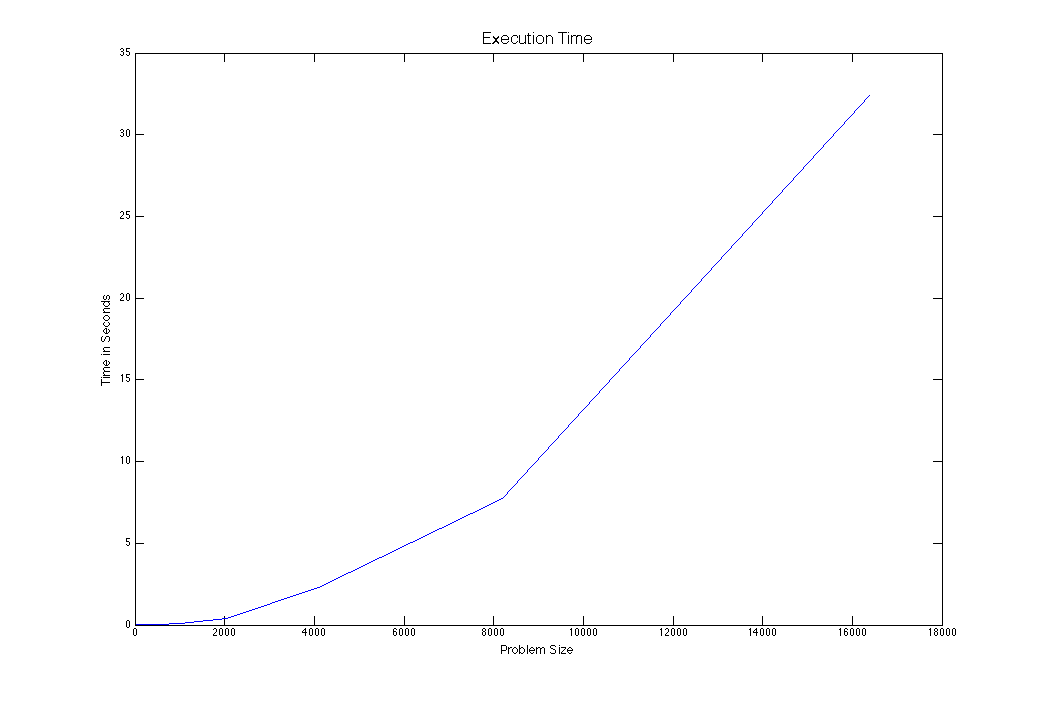
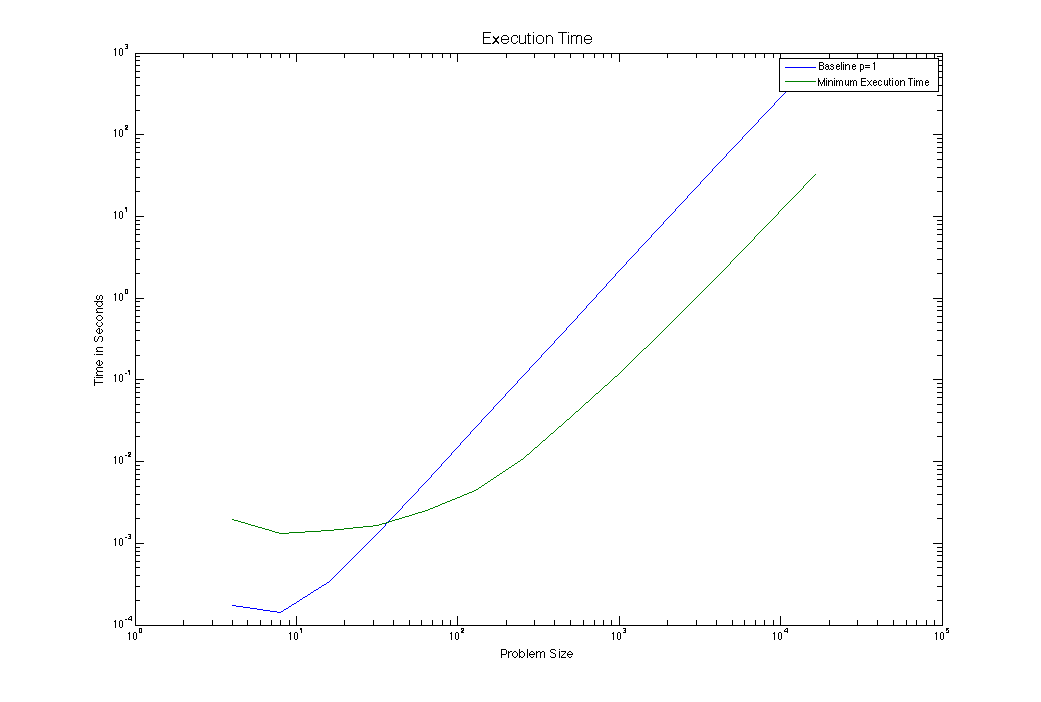
Added some more to results and analysis. Changed the graphs a bit so they are more readable. Wrote some code for generating a graph of the speedup.

diff --git a/TMA4280_Supercomputing/Exercise/ex6/report.tex b/TMA4280_Supercomputing/Exercise/ex6/report.tex
@@ -126,6 +126,8 @@ For our solution we used following packages on kongull:
 		e = \Theta(\frac{1}{n^2})
 	\end{equation}
 
+	We plot our error against this expected error in Figure~\ref{fig:errorGraph}. We generated this graph using the formula from \ref{eqn:error} and by running our program 10 times for each problem size. In each run we found the maximum error in any grid location and found the average max error over the 10 runs. The two lines are parallel so they must only differ by a constant factor. This is the result we predicted so the program must be correct.
+
 	\begin{figure}[htbp]
 	\begin{center}
 	\includegraphics[width=15cm,keepaspectratio=true]{figs/errorGraph}
@@ -134,25 +136,32 @@ For our solution we used following packages on kongull:
 	\end{center}
 	\end{figure}
 
+\subsection{Execution Times}
+
 	\begin{figure}[htbp]
 	\begin{center}
 	\includegraphics[width=15cm,keepaspectratio=true]{figs/executionTime}
-	\caption{Something insightful.}
-	\label{fig:errorGraph}
+	\caption{The minimum execution time of each problem size. See Figure~\ref{fig:threadsProcesses} for a graph of the number of OpenMP threads and MPI processes that were used to achieve the minimum execution times.}
+	\label{fig:executionTime}
 	\end{center}
 	\end{figure}
+
+	Figure~\ref{fig:executionTime} compares the time the fastest parallelized version where $p=36$ with the baseline $p=1$. Using 36 processors has some overhead to synchronize the processors and share data so for small problem sizes the execution time is slower. As the problem size grows, this overhead become very small compared to the processing required to solve the poisson problem, so using 36 processors performs much better. The point where using 36 processors becomes faster than a single processor is very close to $n=36$. This represents the point where the time saved in overhead to coordinate 36 processors is equal to the time saved being able to processes data faster. When $n$ is sufficiently large, both the single processor and 36 processor version experience exponential growth in execution time.  
+	
+
+\section{Analysis}
 
 	\begin{figure}[htbp]
 	\begin{center}
 	\includegraphics[width=15cm,keepaspectratio=true]{figs/threadsProcesses}
-	\caption{Something insightful.}
-	\label{fig:errorGraph}
+	\caption{The number MPI processes and OpenMP threads per process that produced the minimum execution time for each problem size. When the problem size is sufficiently large, using purely MPI produces the fastest results.}
+	\label{fig:threadsProcesses}
 	\end{center}
 	\end{figure}
 
-	
+	In Figure~\ref{fig:threadsProcesses} we can see that for larger problem sizes, using mostly or completely MPI results in faster execution times. The main reason for this is that when we increase the number of MPI processes we are increasing the parallelization of both the fst steps and the transpose step. When we increase the number of OpenMP threads we are only parallelizing the fst step. When there are more MPI processes each process has to send and receive a much smaller piece of data than if there are more OpenMP threads. 
 
-\section{Analysis}
+
 %\begin{figure}[htbp]
 %\begin{center}
 %\includegraphics[width=15cm,keepaspectratio=true]{angles}

diff --git a/TMA4280_Supercomputing/Exercise/ex6/src/dataAnalysis/genSpeedUp.m b/TMA4280_Supercomputing/Exercise/ex6/src/dataAnalysis/genSpeedUp.m
@@ -1,0 +1,43 @@
+function [  ] = genSpeedUp( )
+%GENSPEEDUP Summary of this function goes here
+%   Detailed explanation goes here
+
+baseline = dlmread('proc1Poisson.txt');
+bsize = baseline(:,3);
+btime = baseline(:,4);
+
+vary = dlmread('varyPoisson.txt');
+vsize = vary(:,3);
+vtime = vary(:,4);
+vproc = vary(:,1);
+
+[uniqueSizes,~,sInd] = unique(vsize);
+[uniqueProc,~,pInd] = unique(vproc);
+datalen = length(uniqueProc);
+data = zeros(datalen, length(uniqueSizes));
+
+for i = 1:uniqueProc
+    loc = 1;
+    for j = 1:length(vtime)
+        if (pInd(j) == i)
+            data(i,loc) = vtime(j);
+            loc = loc + 1;
+        end
+    end
+end
+
+speedup = data';
+
+figure, hold, plot ([1;uniqueProc],[1;uniqueProc]);
+for i = 1:length(uniqueSizes)
+    plot([1;uniqueProc], [1,btime(i)./speedup(i,:)]);
+end
+
+
+figure, hold, plot(uniqueSizes, btime);
+for i = 1:uniqueProc
+    plot(uniqueSizes, data(i,:));
+end
+
+end
+

diff --git a/TMA4280_Supercomputing/Exercise/ex6/src/dataAnalysis/genGraphs.m b/TMA4280_Supercomputing/Exercise/ex6/src/dataAnalysis/genGraphs.m
@@ -2,6 +2,10 @@ function [] = genGraphs()
 %GENGRAPHCS Summary of this function goes here
 %   Detailed explanation goes here
 
+baseline = dlmread('proc1Poisson.txt');
+bsize = baseline(:,3);
+btime = baseline(:,4);
+
 data = dlmread('data.txt');
 
 processes = data(:,1);
@@ -14,7 +18,7 @@ error = data(:,5);
 figure, loglog(uniqueSizes, avgError, uniqueSizes, 1./(uniqueSizes).^2);
 
 [uniqueSizes, minTime] = minTimes(size, time);
-figure, plot(uniqueSizes, minTime);
+figure, plot(bsize, btime, uniqueSizes, minTime);
 
 [uniqueSizes, optProc, optThrd] = optimalParallel(size, processes, threads, time);
 figure, plot(uniqueSizes, optProc, uniqueSizes, optThrd);
